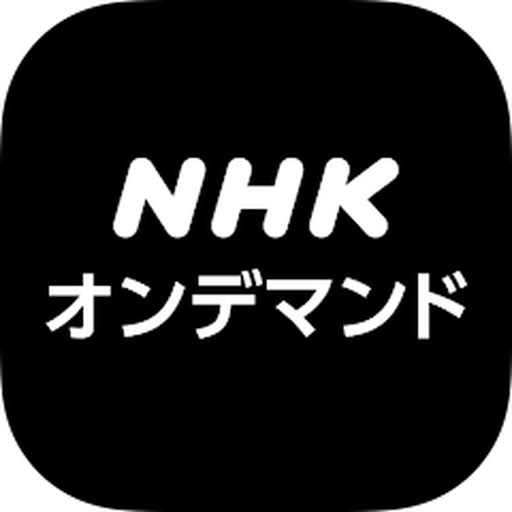
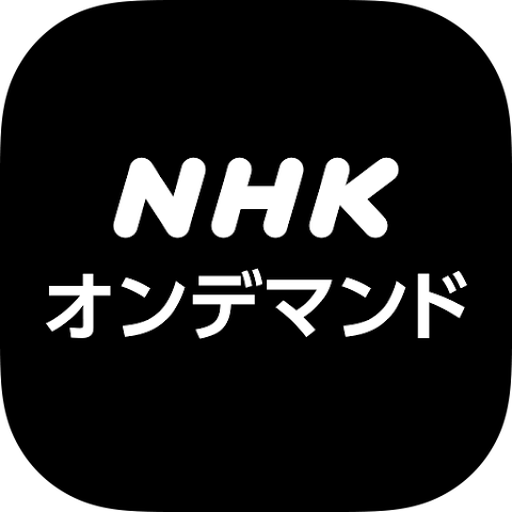
🎬 替换 3 个 legacy 半径图标并移除 Pipixia
【图标替换：修正圆角至 r=115，遮罩外可见 alpha 清零】
- icons/Media/myTVSUPER/myTVSUPER.png   127,696 B → 8,071 B
  旧：圆形彩色徽标 + 字标（透明底，遮罩外 182px）
  新：官方字标版（白底 + 黑字 + E 的红绿蓝三横）
- icons/Media/NHK/NHK.png               40,704 B → 27,499 B
  同一设计（黑底 + 白字 NHK / オンデマンド），仅修正圆角（旧 r≈96 → r=115，遮罩外 136px → 0）
  源图 480×480，按项目既有行为 LANCZOS 上采样至 512
- icons/Utilities/AdGuard/AdGuard.png   59,977 B → 28,880 B
  旧：绿色圆角方底 + 描边盾；新：白底 + 填充式绿盾（双色）+ 白对勾（遮罩外 1075px → 0）

【移除品牌】
- 删除 icons/ByteDance/Pipixia/Pipixia.png，并从 config/brands.json 移除条目（295 → 294 品牌）
- ByteDance 生态仍达标：canonical 后代 5 → 4，≥ 生态阈值 2，无连带降级
- 历史/证据类文档中的旧引用按规范保留（docs/migrations/*、docs/references/brand-ownership-audit.md）

【规范化与验证】
- 三张图标均经仓库 canonical normalizer（512×512 RGBA + r=115 遮罩）：四角 alpha=0、首行透明起止 105/114/105、遮罩外可见 alpha=0
- oxipng 无损压缩像素安全：alpha 通道逐字节一致；RGB 差异像素全部 alpha=0；白底与黑底合成后 RGB 逐字节一致
- 生成器全量重跑：brand-relationships、glossary、分类与父品牌 README、surge-icon.json、README 统计
- ci-validate-icons rc=0（17 组）｜ci-validate-docs rc=0（72 文件 / 38 concrete path）｜unittest 206/206 OK
- 现状：294 PNG / 294 品牌 / 42 分类（41 活跃 + Finance 预留）｜surge-icon.json 294 条

diff --git a/README.md b/README.md
@@ -17,8 +17,8 @@
   <img src="https://img.shields.io/github/stars/Hawaiine/Oasisic-Icons?style=flat-square" alt="Stars">
   <img src="https://img.shields.io/github/last-commit/Hawaiine/Oasisic-Icons?style=flat-square" alt="Last Commit">
   <img src="https://img.shields.io/github/repo-size/Hawaiine/Oasisic-Icons?style=flat-square" alt="Repo Size">
-  <img src="https://img.shields.io/badge/icons-295-blue?style=flat-square" alt="Icons Count">
-  <img src="https://img.shields.io/badge/brands-295-green?style=flat-square" alt="Brands Count">
+  <img src="https://img.shields.io/badge/icons-294-blue?style=flat-square" alt="Icons Count">
+  <img src="https://img.shields.io/badge/brands-294-green?style=flat-square" alt="Brands Count">
   <img src="https://img.shields.io/badge/categories-42-orange?style=flat-square" alt="Categories Count">
 </p>
 
@@ -35,11 +35,11 @@
 
 ## 📖 简介 / Introduction
 
-**Oasisic-Icons** 是一套专为代理工具设计的策略组图标合集：当前共 **295** 个 PNG 图标，覆盖 **295** 个品牌，归入 **42** 个一级分类（其中 41 个活跃，`Finance` 为预留空分类）。
+**Oasisic-Icons** 是一套专为代理工具设计的策略组图标合集：当前共 **294** 个 PNG 图标，覆盖 **294** 个品牌，归入 **42** 个一级分类（其中 41 个活跃，`Finance` 为预留空分类）。
 
-**仓库统计口径 / Repository metrics**：SSOT entities **295** · canonical entities **236** · icon-backed entities **295** · PNG **295** · pending no-icon entities **0** · categories **42** · ecosystems **17**
+**仓库统计口径 / Repository metrics**：SSOT entities **294** · canonical entities **235** · icon-backed entities **294** · PNG **294** · pending no-icon entities **0** · categories **42** · ecosystems **17**
 
-本项目为独立图标仓库，当前 295 个图标均为 512×512 PNG（RGBA 模式），适配 Surge、Loon、Clash Meta / Mihomo、Stash、Quantumult X、Egern 等主流代理客户端。
+本项目为独立图标仓库，当前 294 个图标均为 512×512 PNG（RGBA 模式），适配 Surge、Loon、Clash Meta / Mihomo、Stash、Quantumult X、Egern 等主流代理客户端。
 
 > **画质规范（贡献与替换标准）**：512×512 方形 PNG，RGBA 模式，Apple 风格 squircle 圆角（圆角半径 ≈ 115px / 约 22.4%），保留原始底色。
 > 仓库内图标按该规范维护，均为 512×512、RGBA、保留原始底色，经 `scripts/optimize-icons.py` 无损重压缩；少量历史圆角边缘遗留项待处理，明细与遗留项见 [`docs/references/icon-quality-notes.md`](docs/references/icon-quality-notes.md)。
@@ -186,7 +186,7 @@ static=Netflix, HK, TW, JP, SG, img-url=https://raw.githubusercontent.com/Hawaii
 | 📦 Amazon | 亚马逊生态 | 6 | 6 |
 | 🍎 Apple | 苹果生态 | 13 | 13 |
 | 🔍 Baidu | 百度生态 | 4 | 4 |
-| ▶ ByteDance | 字节跳动生态 | 6 | 6 |
+| ▶ ByteDance | 字节跳动生态 | 5 | 5 |
 | 📶 ChinaMobile | 中国移动生态 | 3 | 3 |
 | 🏰 Disney | 迪士尼生态 | 4 | 4 |
 | 🏗 Infrastructure | 基础设施与运维（云平台/网络/容器/NAS） | 7 | 7 |
@@ -223,7 +223,7 @@ static=Netflix, HK, TW, JP, SG, img-url=https://raw.githubusercontent.com/Hawaii
 | 🧰 Utilities | 生产力工具与实用服务 | 9 | 9 |
 | 🎞 Warner Bros. Discovery | 华纳兄弟探索生态 | 3 | 3 |
 | 🛰 SpaceXAI | SpaceXAI 生态 | 4 | 4 |
-| **合计** | — | **295** | **295** |
+| **合计** | — | **294** | **294** |
 ### 分类体系原则（方案 C，2026-09-29）
 
 一级分类**不设中间层**：不设置 `Ecosystems / Services / Special` 等分类之上的中间层；分类之下的深度只由**真实父子层级**决定——直接父品牌是 category 根时保持 `icons/<分类>/<品牌>/`，直接父品牌本身也是中间品牌（同类且有自身图标）时嵌套为 `icons/<分类>/<中间父>/<品牌>/`。

diff --git a/docs/references/physical-hierarchy-audit.md b/docs/references/physical-hierarchy-audit.md
@@ -85,7 +85,7 @@ cross-category 关系共 **3** 条。
 | `Amazon` | `Amazon` | YES | `Amazon` | 5 | Ecosystem |
 | `Apple` | `Apple` | YES | `Apple` | 12 | Ecosystem |
 | `Baidu` | `Baidu` | YES | `Baidu` | 3 | Ecosystem |
-| `ByteDance` | `ByteDance` | YES | `ByteDance` | 5 | Ecosystem |
+| `ByteDance` | `ByteDance` | YES | `ByteDance` | 4 | Ecosystem |
 | `ChinaMobile` | `ChinaMobile` | YES | `ChinaMobile` | 2 | Ecosystem |
 | `Disney` | `Disney` | YES | `Disney` | 3 | Ecosystem |
 | `Google` | `Google` | YES | `Google` | 11 | Ecosystem |
@@ -103,7 +103,7 @@ cross-category 关系共 **3** 条。
 
 ## 6. 统计
 
-- canonical product brands：**236**
+- canonical product brands：**235**
 - canonical ecosystem entities：**1**
 - 物理父品牌节点：**26**
 - 深层嵌套品牌（路径 ≥ 5 段）：**7**

diff --git a/docs/references/brand-glossary.md b/docs/references/brand-glossary.md
@@ -1,6 +1,6 @@
 # 品牌术语表 / Brand Glossary
 > 本文件由 `config/brands.json` 派生（CI 校验一致性）。
-> 共 **295** 个品牌 / 文件夹标识。Technical ID 为目录名；Display Name 为官方真实品牌名。
+> 共 **294** 个品牌 / 文件夹标识。Technical ID 为目录名；Display Name 为官方真实品牌名。
 
 ## #
 
@@ -286,7 +286,6 @@
 | PikPak | PikPak |
 | Pinduoduo | 拼多多 |
 | Pinterest | Pinterest |
-| Pipixia | 皮皮虾 |
 | Play | Play |
 | PlayStation | PlayStation |
 | Plex | Plex |

diff --git a/icons/ByteDance/README.md b/icons/ByteDance/README.md
@@ -1,6 +1,6 @@
 # ▶ ByteDance / 字节跳动生态
 
-> 共 **6** 个图标，**6** 个品牌
+> 共 **5** 个图标，**5** 个品牌
 
 | 品牌 | 图标文件 |
 |:---|:---|
@@ -8,7 +8,6 @@
 | `Doubao` | `Doubao.png` |
 | `Douyin` | `Douyin.png` |
 | `Lark` | `Lark.png` |
-| `Pipixia` | `Pipixia.png` |
 | `TikTok` | `TikTok.png` |
 
 <!-- generated: ecosystem-tree (scripts/generate-category-readmes.sh) -->
@@ -18,6 +17,5 @@ ByteDance
 ├── Doubao
 ├── Douyin
 ├── Lark
-├── Pipixia
 └── TikTok
 ```

diff --git a/icons/ByteDance/ByteDance/README.md b/icons/ByteDance/ByteDance/README.md
@@ -10,7 +10,7 @@ Parent:       —
 Graph Root:   ByteDance
 Ecosystem Root: ByteDance
 Ancestor Chain: ByteDance
-Direct Children: 5
+Direct Children: 4
 ```
 
 | Child | Display Name |
@@ -18,5 +18,4 @@ Direct Children: 5
 | `Doubao` | 豆包 |
 | `Douyin` | 抖音 |
 | `Lark` | 飞书 |
-| `Pipixia` | 皮皮虾 |
 | `TikTok` | TikTok |
